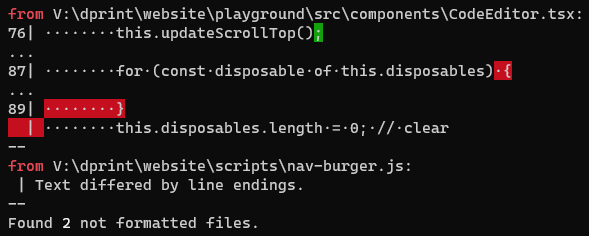
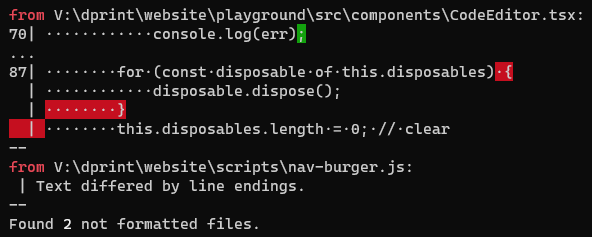
feat: dprint check should group code together that only has one line separating it.

diff --git a/crates/dprint/src/utils/get_difference.rs b/crates/dprint/src/utils/get_difference.rs
@@ -124,7 +124,11 @@ fn get_grouped_changes<'a>(text1: &'a str, text2: &'a str) -> Vec<GroupedChange<
 
     for change in changes {
         if let Some(grouped_change) = grouped_changes.last_mut() {
-            if grouped_change.end_line_number >= change.start_line_number() - 1 {
+            // keeps changes together if they are only separated by a single line
+            const GROUPED_LINE_COUNT: usize = 2;
+            let should_group = change.start_line_number() < GROUPED_LINE_COUNT // prevent overflow
+                || grouped_change.end_line_number >= change.start_line_number() - GROUPED_LINE_COUNT;
+            if should_group {
                 grouped_change.end_index = change.end_index();
                 grouped_change.end_line_number = change.end_line_number();
                 grouped_change.changes.push(change);
@@ -396,11 +400,24 @@ mod test {
     #[test]
     fn it_should_show_multiple_removals_on_different_lines() {
         assert_eq!(
-            get_difference("let t ;\n\nlet u ;\n", "let t;\n\nlet u;\n"),
+            get_difference("let t ;\n\n\nlet u ;\n", "let t;\n\n\nlet u;\n"),
             format!(
                 "{}\n...\n{}",
                 format!("1| let\u{00B7}t{};", get_removal_text("\u{00B7}")),
-                format!("3| let\u{00B7}u{};", get_removal_text("\u{00B7}")),
+                format!("4| let\u{00B7}u{};", get_removal_text("\u{00B7}")),
+            )
+        );
+    }
+
+    #[test]
+    fn it_should_keep_grouped_when_changes_only_separated_by_one_line() {
+        assert_eq!(
+            get_difference("let t ;\ntest;\nlet u ;\n", "let t;\ntest;\nlet u;\n"),
+            format!(
+                "{}\n{}\n{}",
+                format!("1| let\u{00B7}t{};", get_removal_text("\u{00B7}")),
+                " | test;",
+                format!(" | let\u{00B7}u{};", get_removal_text("\u{00B7}")),
             )
         );
     }
